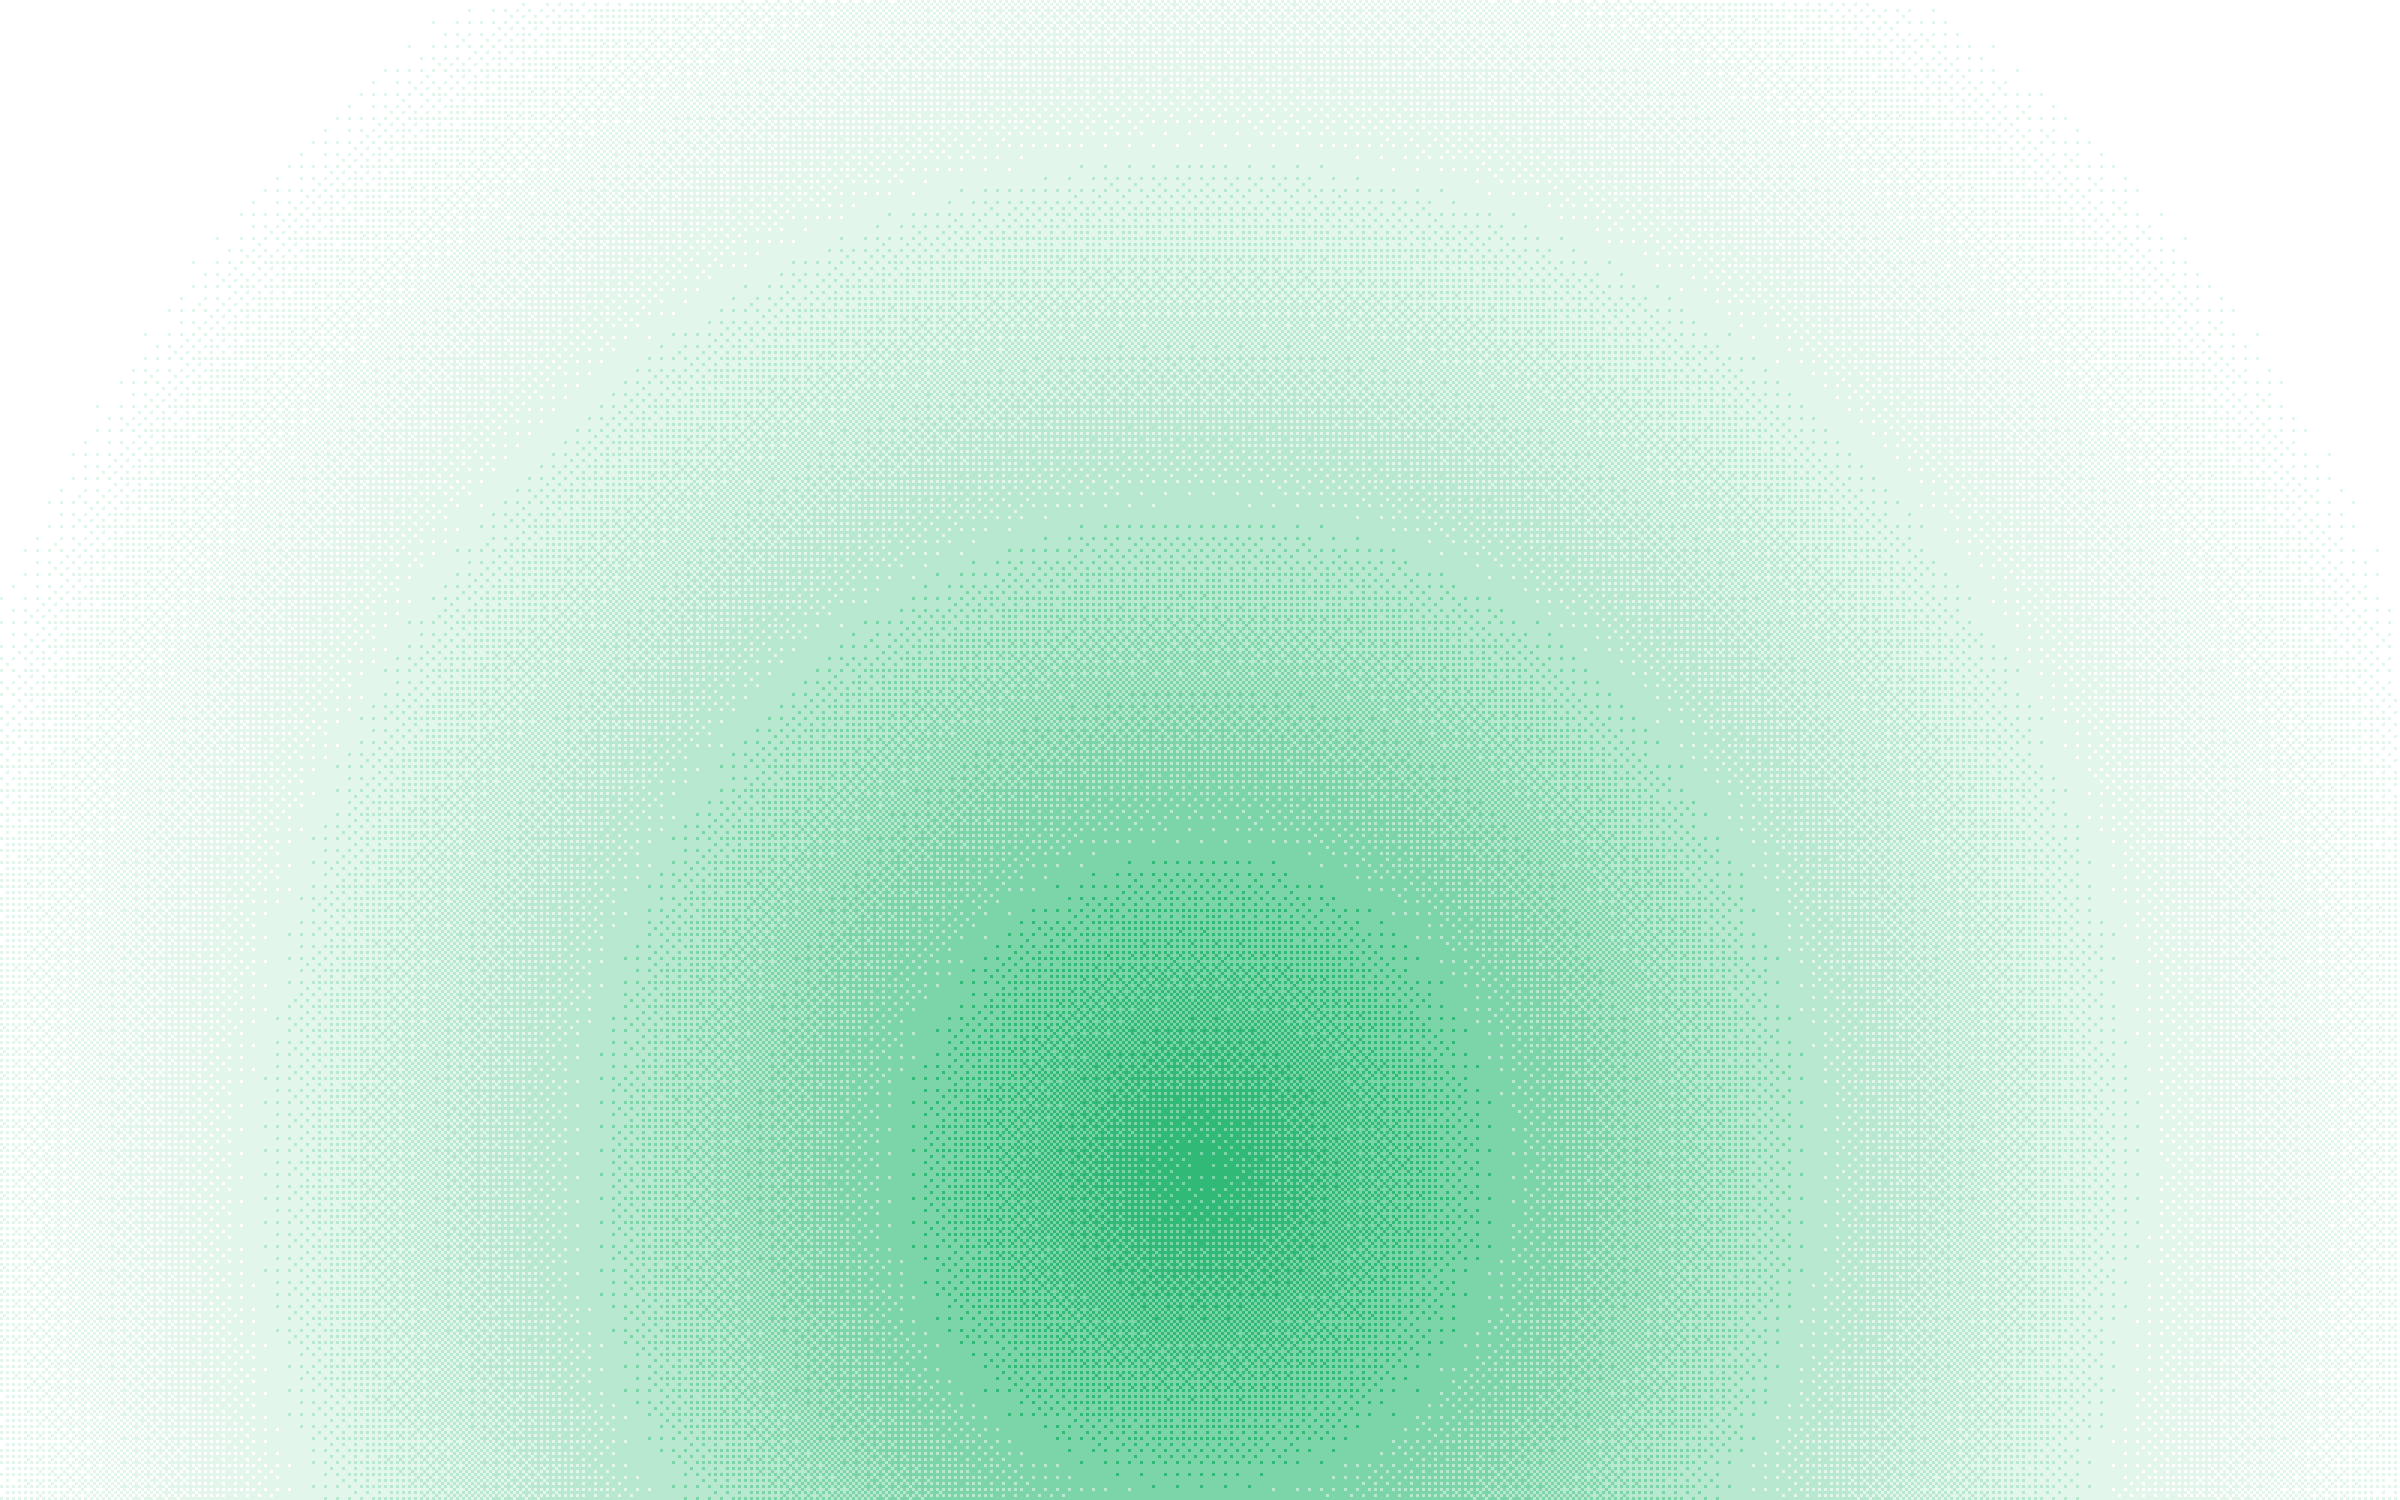
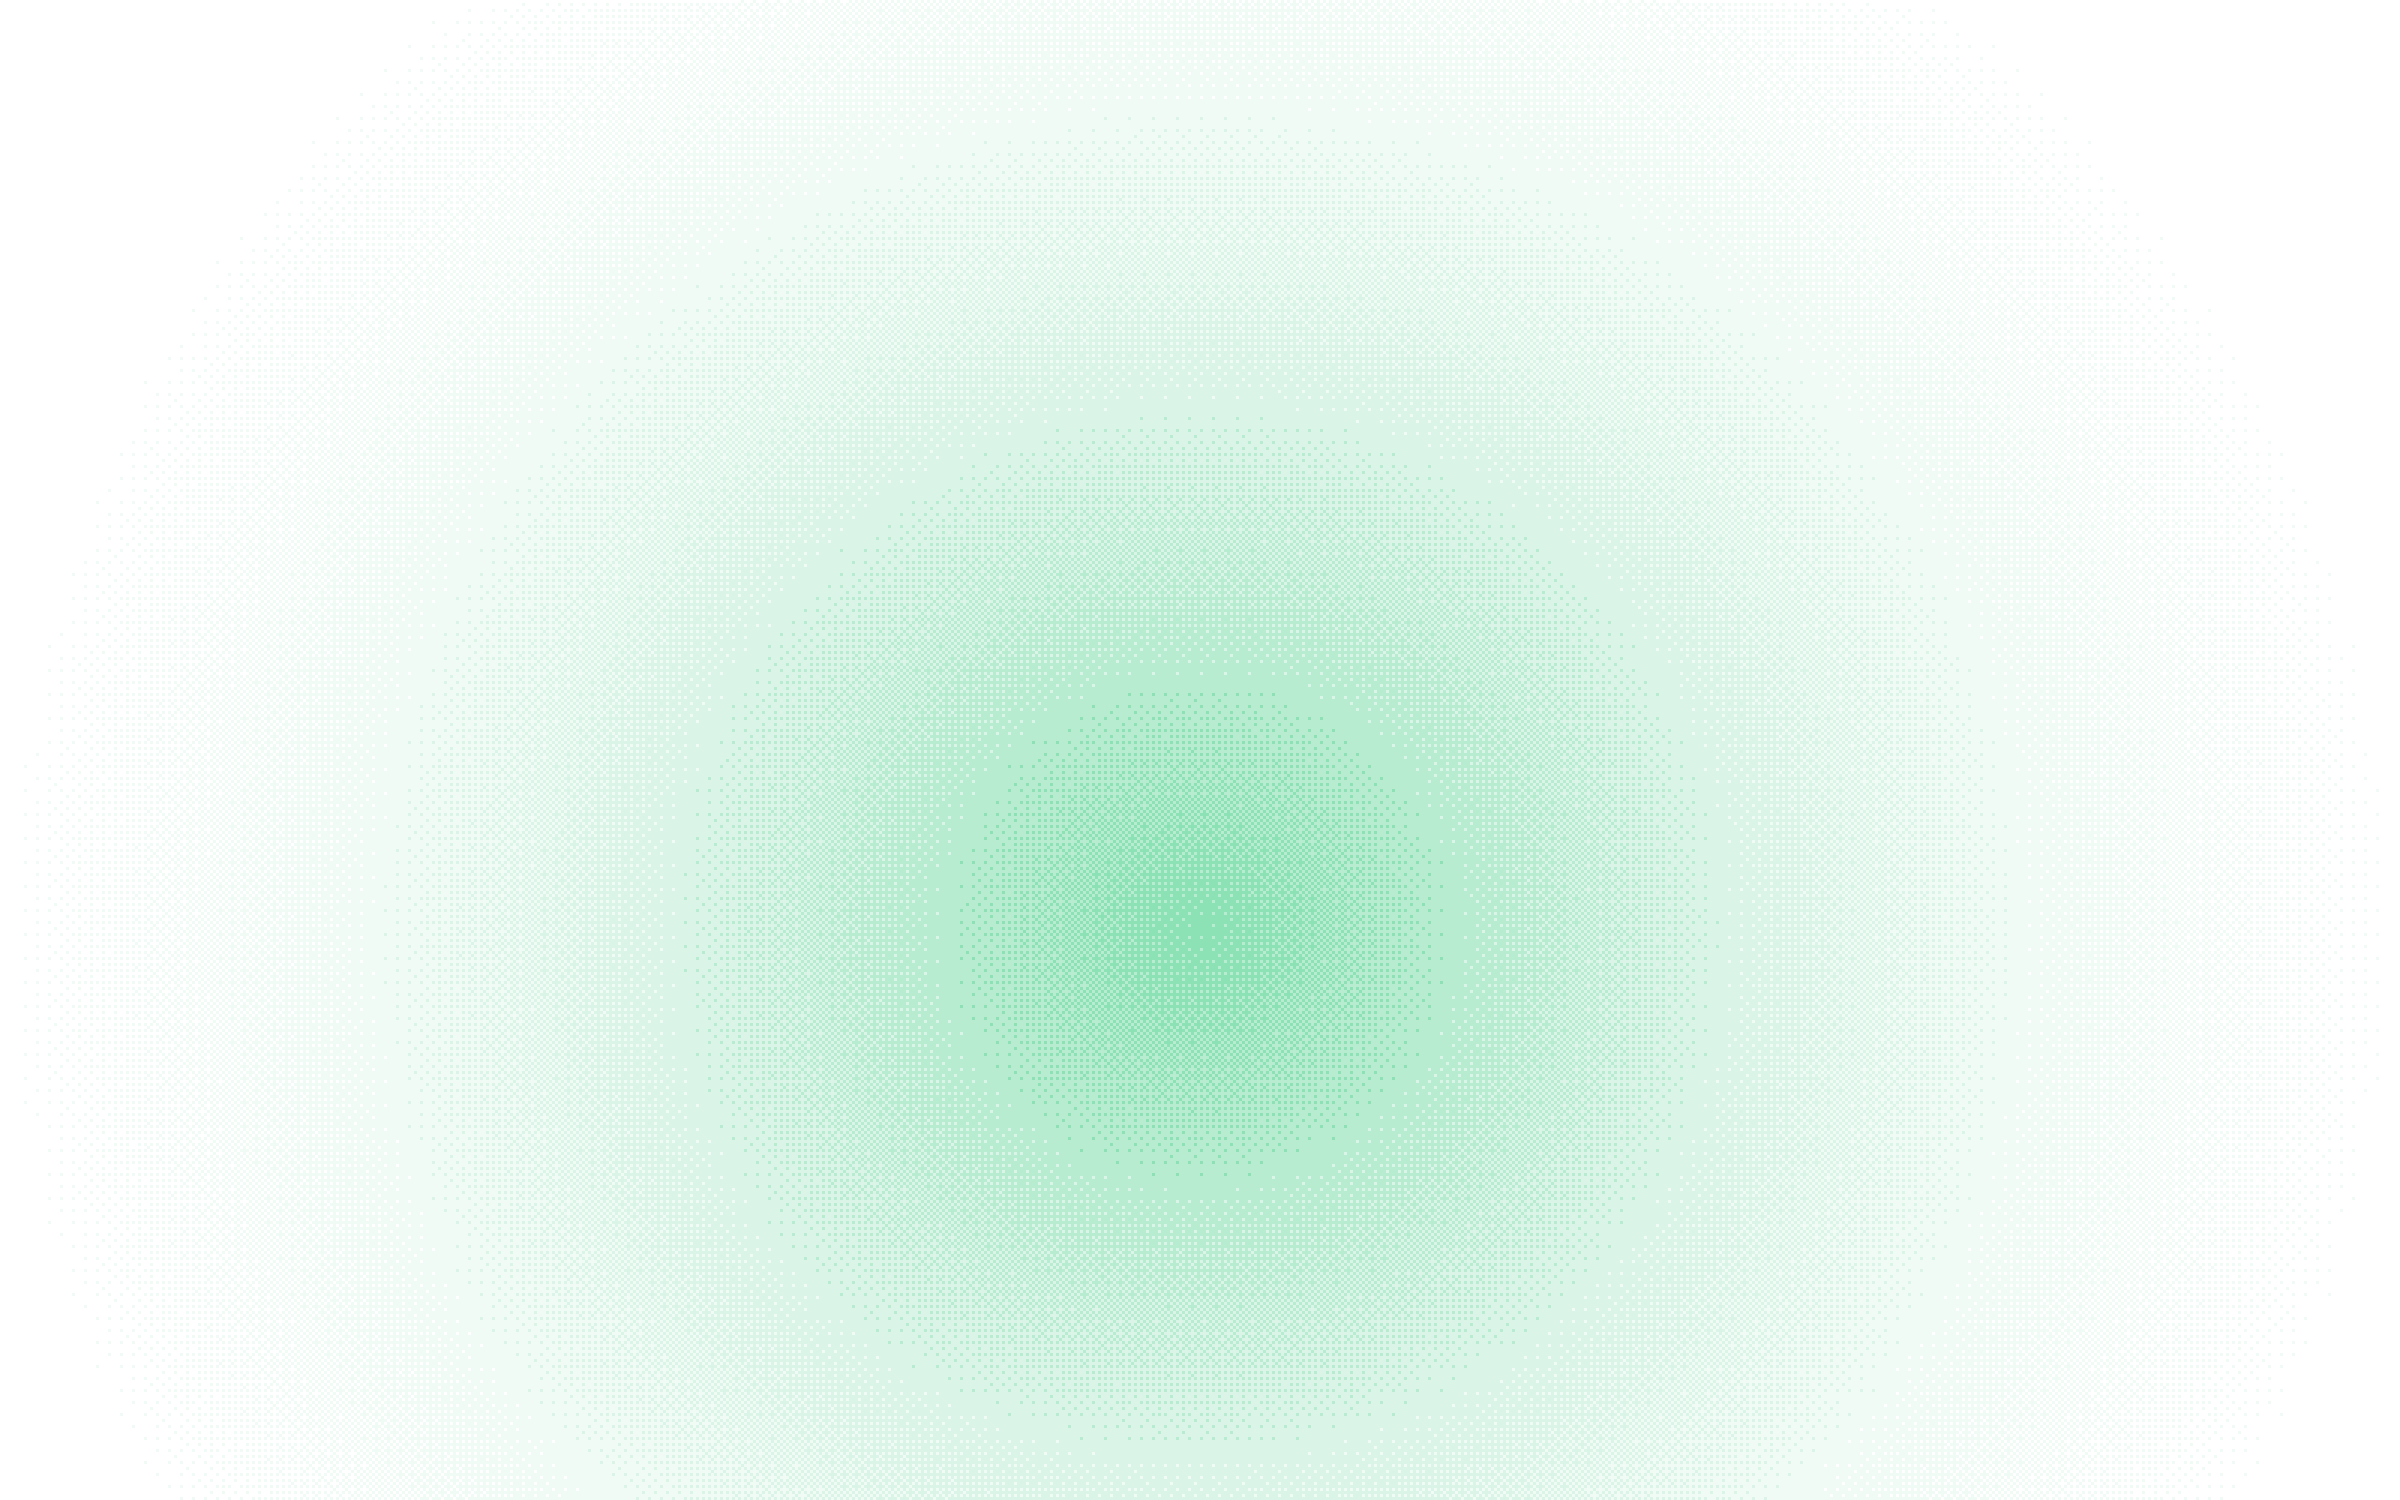
Keep onboarding's glow low and its words readable
The glow fades out by half its height so text sits on a clean page,
the bloom centers on the window with a softer light tone, and the
setting-up line darkens over it. Action pills size to their label,
the sign-in divider shows, Return continues past the account screen,
and the waiting screen reads "Continue in your browser".

diff --git a/crates/convt-app/src/ui/first_run.rs b/crates/convt-app/src/ui/first_run.rs
@@ -291,6 +291,16 @@ impl FirstRunView {
     }
 
     fn key_down(&mut self, event: &KeyDownEvent, window: &mut Window, cx: &mut Context<Self>) {
+        if self.screen == Screen::Account && event.keystroke.key == "enter" {
+            // Return continues where Continue is the main button.
+            if matches!(
+                self.stage(cx),
+                Stage::Pro | Stage::Licensed | Stage::Trial { .. }
+            ) {
+                self.continue_from_account(window, cx);
+            }
+            return;
+        }
         let Screen::Question(_) = self.screen else {
             return;
         };
@@ -323,12 +333,15 @@ impl FirstRunView {
             Stage::SignIn => self.sign_in_buttons(p, cx),
             Stage::Waiting => column()
                 .child(spinner(p))
-                .child(heading("Finish signing in in your browser", p))
-                .child(line("convt.app is open in your browser.", p))
+                .child(heading("Continue in your browser", p))
+                .child(line("Finish signing in on convt.app, then come back here.", p))
                 .child(
                     actions()
                         .child(
-                            pill("onboarding-reopen", "Open again", Pill::Soft, p).on_click(
+                            pill("onboarding-reopen", "Open again", Pill::Soft, p)
+                                .w_auto()
+                                .min_w(px(160.))
+                                .px(px(24.)).on_click(
                                 cx.listener(|this, _, _, cx| {
                                     this.app.update(cx, |s, cx| s.reopen_sign_in(cx))
                                 }),
@@ -347,7 +360,10 @@ impl FirstRunView {
                 .child(
                     actions()
                         .child(
-                            pill("onboarding-retry", "Try again", Pill::Strong, p).on_click(
+                            pill("onboarding-retry", "Try again", Pill::Strong, p)
+                                .w_auto()
+                                .min_w(px(160.))
+                                .px(px(24.)).on_click(
                                 cx.listener(|this, _, _, cx| {
                                     let provider = this.provider;
                                     this.sign_in(provider, cx)
@@ -365,7 +381,10 @@ impl FirstRunView {
                 .child(super::error_text(e, p))
                 .child(
                     actions().child(
-                        pill("onboarding-retry", "Try again", Pill::Strong, p).on_click(
+                        pill("onboarding-retry", "Try again", Pill::Strong, p)
+                                .w_auto()
+                                .min_w(px(160.))
+                                .px(px(24.)).on_click(
                             cx.listener(|this, _, _, cx| {
                                 this.app.update(cx, |s, cx| s.refresh_license(cx))
                             }),
@@ -431,6 +450,9 @@ impl FirstRunView {
                     actions()
                         .child(
                             pill("onboarding-reopen", "Open checkout again", Pill::Soft, p)
+                                .w_auto()
+                                .min_w(px(160.))
+                                .px(px(24.))
                                 .on_click(cx.listener(|this, _, _, cx| {
                                     this.app.update(cx, |s, cx| s.start_trial(cx))
                                 })),
@@ -491,9 +513,9 @@ impl FirstRunView {
                     .items_center()
                     .gap(px(14.))
                     .w(px(PILL_WIDTH))
-                    .child(div().flex_1().h(px(1.)).bg(p.hairline))
+                    .child(div().flex_1().h(px(1.)).bg(p.control_border))
                     .child(styled(theme::size::SMALL, p.tertiary).child("or"))
-                    .child(div().flex_1().h(px(1.)).bg(p.hairline)),
+                    .child(div().flex_1().h(px(1.)).bg(p.control_border)),
             )
             .child(
                 pill("onboarding-email", "Continue with Email", Pill::Soft, p)
@@ -562,10 +584,10 @@ impl FirstRunView {
         let detail = match question {
             Question::Documents => match state.pack.offer.download {
                 Some(bytes) => format!(
-                    "Word, Excel, PowerPoint and more. A one-time {} download.",
+                    "Word, Excel, PowerPoint and more. One {} download.",
                     super::human_size(bytes)
                 ),
-                None => "Word, Excel, PowerPoint and more. A one-time download.".to_string(),
+                None => "Word, Excel, PowerPoint and more. One download.".to_string(),
             },
             Question::Finder => {
                 "Right-click any file in Finder to convert it. System Settings opens to turn it on."
@@ -629,7 +651,8 @@ impl FirstRunView {
 
     fn calibrating(&self, p: &Palette, cx: &App) -> AnyElement {
         let words = "Setting convt up…";
-        let (base, bright) = (p.secondary, p.text);
+        // Over the bloom, so darker than the page's secondary text.
+        let (base, bright) = (p.text.opacity(0.5), p.text);
         let still = cx.reduce_motion();
         let label = div()
             .id("onboarding-title")
@@ -705,9 +728,13 @@ impl FirstRunView {
             .into_any_element()
         };
         let bloom = calibrating.then(|| {
+            // Its brightest point (62% down the image) sits at the
+            // window's middle.
+            let top = -BLOOM.1 * 0.62;
             let bloom = img(SharedString::from(format!("onboarding/bloom-{theme}.png")))
                 .absolute()
-                .bottom_0()
+                .top(relative(0.5))
+                .mt(px(top))
                 .left(relative(0.5))
                 .ml(px(-BLOOM.0 / 2.))
                 .w(px(BLOOM.0))
@@ -720,7 +747,7 @@ impl FirstRunView {
                     .with_animation(
                         "bloom",
                         Animation::new(CALIBRATE.mul_f32(0.55)).with_easing(ease_out_quint()),
-                        |img, t| img.opacity(t).mb(px(-180. * (1. - t))),
+                        move |img, t| img.opacity(t).mt(px(top + 160. * (1. - t))),
                     )
                     .into_any_element()
             }
@@ -735,7 +762,7 @@ impl FirstRunView {
 }
 
 /// The glow's and the bloom's size: the PNGs' pixel size, drawn unscaled.
-const GLOW: (f32, f32) = (2400., 720.);
+const GLOW: (f32, f32) = (2400., 540.);
 const BLOOM: (f32, f32) = (2400., 1500.);
 
 const PILL_WIDTH: f32 = 340.;

diff --git a/crates/convt-app/assets/onboarding/generate.py b/crates/convt-app/assets/onboarding/generate.py
@@ -39,6 +39,11 @@ THEMES = {
     "light": ((0xA8, 0xE6, 0xC4), (0x1F, 0xB3, 0x6C), 0.92),
     "dark": ((0x0E, 0x4D, 0x2E), (0x3F, 0xCB, 0x84), 0.85),
 }
+# The bloom is softer: it fills the window behind text.
+BLOOM = {
+    "light": ((0xD4, 0xF3, 0xE2), (0x6F, 0xD9, 0xA3), 0.8),
+    "dark": ((0x0E, 0x3D, 0x26), (0x2F, 0xB3, 0x72), 0.7),
+}
 
 
 def field(w, h, cx, cy, rx, ry, power):
@@ -57,7 +62,7 @@ def dither(intensity):
 
 
 def render(name, size, center, radii, power, theme):
-    outer, core, alpha = THEMES[theme]
+    outer, core, alpha = (BLOOM if name == "bloom" else THEMES)[theme]
     w, h = size[0] // CELL, size[1] // CELL
     q = dither(field(w, h, center[0] * w, center[1] * h, radii[0] * w, radii[1] * h, power))
     outer, core = np.array(outer, dtype=np.float64), np.array(core, dtype=np.float64)
@@ -69,7 +74,8 @@ def render(name, size, center, radii, power, theme):
 
 
 for theme in THEMES:
-    # A wide band of light rising from below the bottom edge.
-    render("glow", (2400, 720), (0.5, 1.12), (0.42, 1.05), 1.35, theme)
-    # The whole window, brightest low and center.
-    render("bloom", (2400, 1500), (0.5, 0.78), (0.55, 0.95), 1.1, theme)
+    # A wide band of light rising from below the bottom edge, gone by
+    # about half its height so words above it sit on a clean page.
+    render("glow", (2400, 540), (0.5, 1.2), (0.4, 1.15), 1.5, theme)
+    # The whole window, brightest a little below the middle.
+    render("bloom", (2400, 1500), (0.5, 0.62), (0.5, 0.8), 1.2, theme)

diff --git a/crates/convt-app/src/ui/tests.rs b/crates/convt-app/src/ui/tests.rs
@@ -1591,7 +1591,7 @@ fn the_sign_in_buttons_ask_for_their_provider(cx: &mut TestAppContext) {
         });
         assert_eq!(
             label(cx, window, "onboarding-title").as_deref(),
-            Some("Finish signing in in your browser")
+            Some("Continue in your browser")
         );
         click(cx, window, "onboarding-reopen");
         assert_eq!(cx.opened_url().as_deref(), Some(page.as_str()));
@@ -1882,8 +1882,8 @@ fn first_run_shows_a_license_it_already_has(cx: &mut TestAppContext) {
             Some(title)
         );
         assert!(!shown(cx, window, "onboarding-google"));
-        // Continue moves on without starting a trial or asking for a key.
-        click(cx, window, "onboarding-primary");
+        // Return continues, without starting a trial or asking for a key.
+        cx.simulate_keystrokes(window, "enter");
         assert!(!f.dir.path().join("trial").exists(), "no trial started");
         finish_onboarding(cx, &view);
         cx.read(|cx| assert!(f.app.read(cx).settings.first_run_done));
